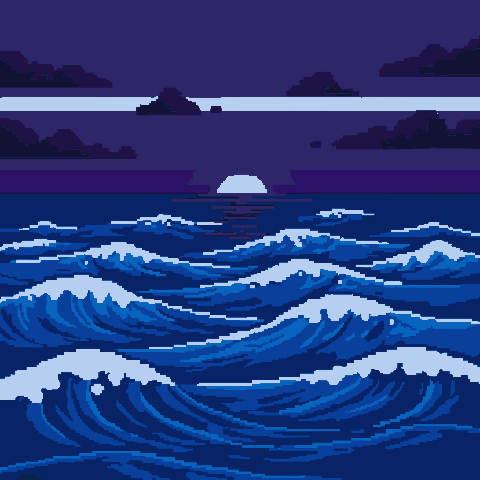
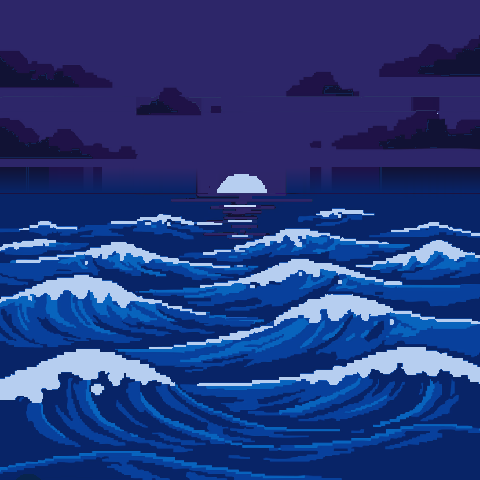
Refine ocean cleanup and remove overlay bars

diff --git a/script.js b/script.js
@@ -749,32 +749,6 @@ function drawOceanBackdrop() {
     drawPixelRect(gameContext, x, y, 2, 2, "#c7d8ff");
     drawPixelRect(gameContext, x + 2, y + 2, 2, 2, "#8aa9ff");
   }
-
-  // A narrow moon reflection looks cleaner than the old wide horizon bars and stays aligned with the moon itself.
-  const reflectionMasks = [
-    [222, 223, 36, 4, "#241c5d"],
-    [225, 237, 30, 4, "#241c5d"],
-    [229, 251, 22, 4, "#1b337a"],
-    [232, 265, 16, 4, "#1b337a"],
-    [234, 279, 12, 4, "#123b8f"],
-    [236, 293, 8, 4, "#123b8f"]
-  ];
-
-  for (const [x, y, width, height, color] of reflectionMasks) {
-    drawPixelRect(gameContext, x, y, width, height, color);
-  }
-
-  const reflectionHighlights = [
-    [226, 223, 28, 3, "#c8daf8"],
-    [229, 237, 22, 3, "#b6cdf4"],
-    [232, 251, 16, 3, "#a5c0ef"],
-    [235, 265, 10, 3, "#93b2ea"],
-    [237, 279, 6, 3, "#86a6e4"]
-  ];
-
-  for (const [x, y, width, height, color] of reflectionHighlights) {
-    drawPixelRect(gameContext, x, y, width, height, color);
-  }
 }
 
 function getPathNeighbors(x, y) {
